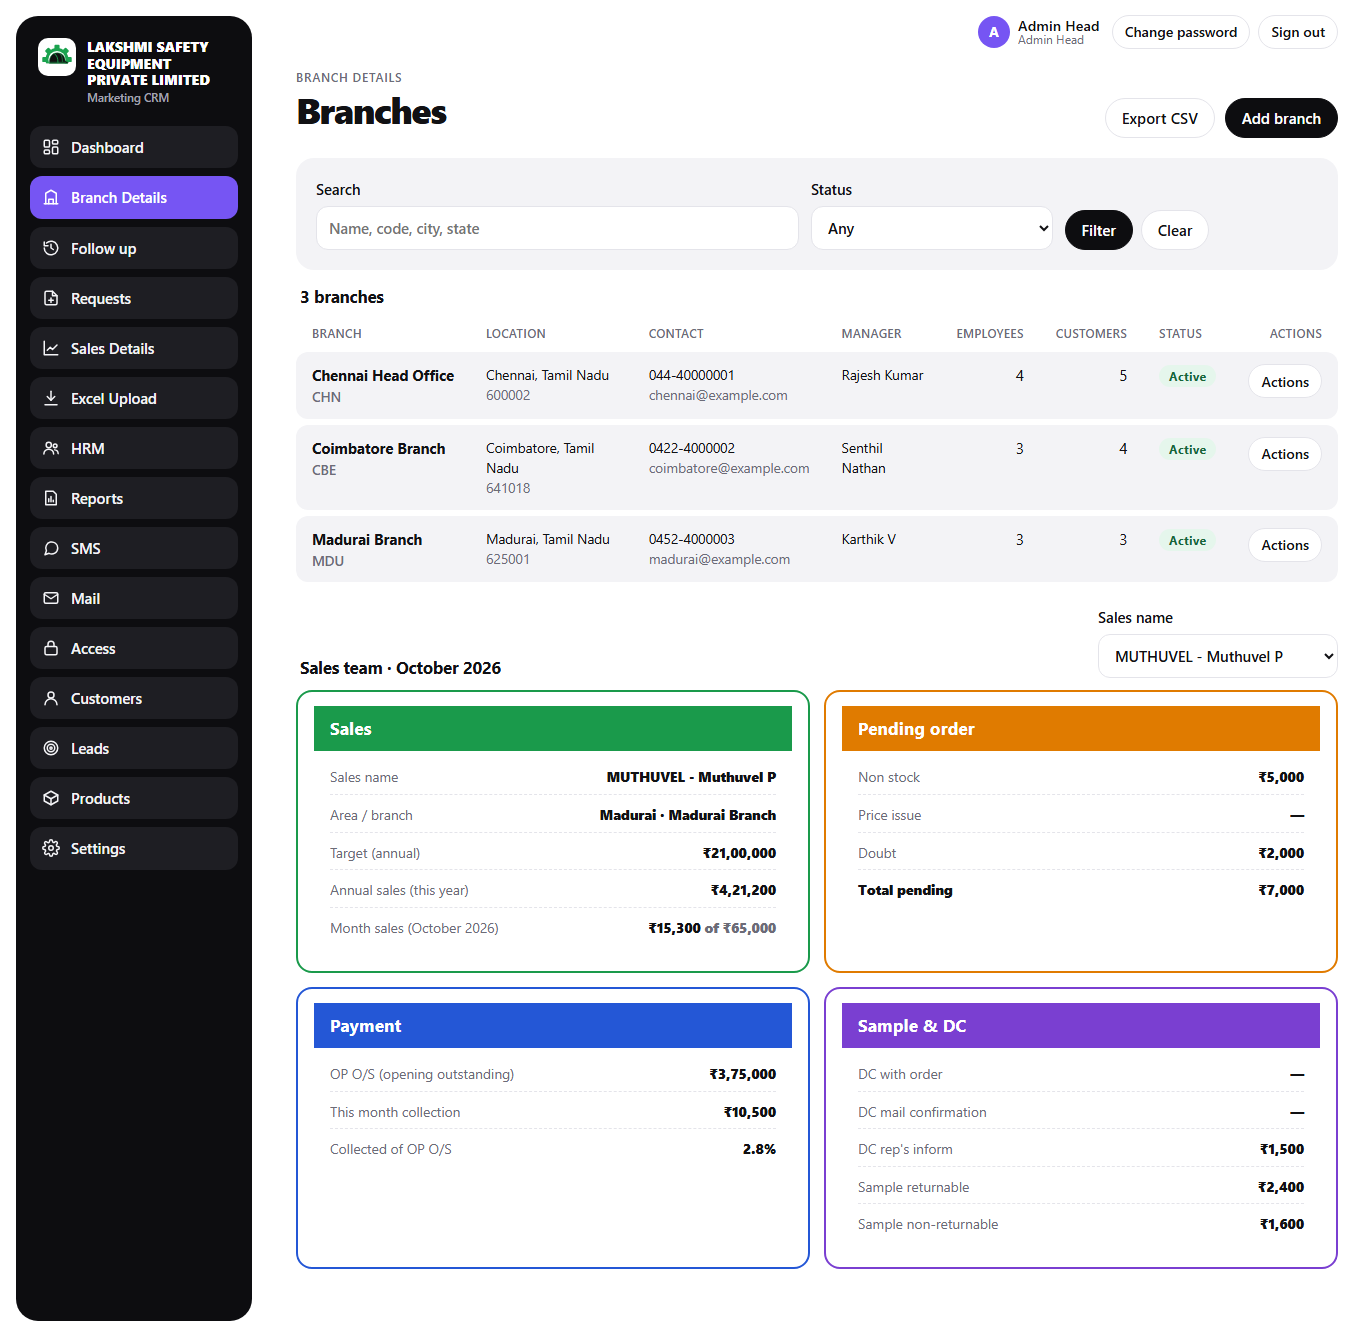
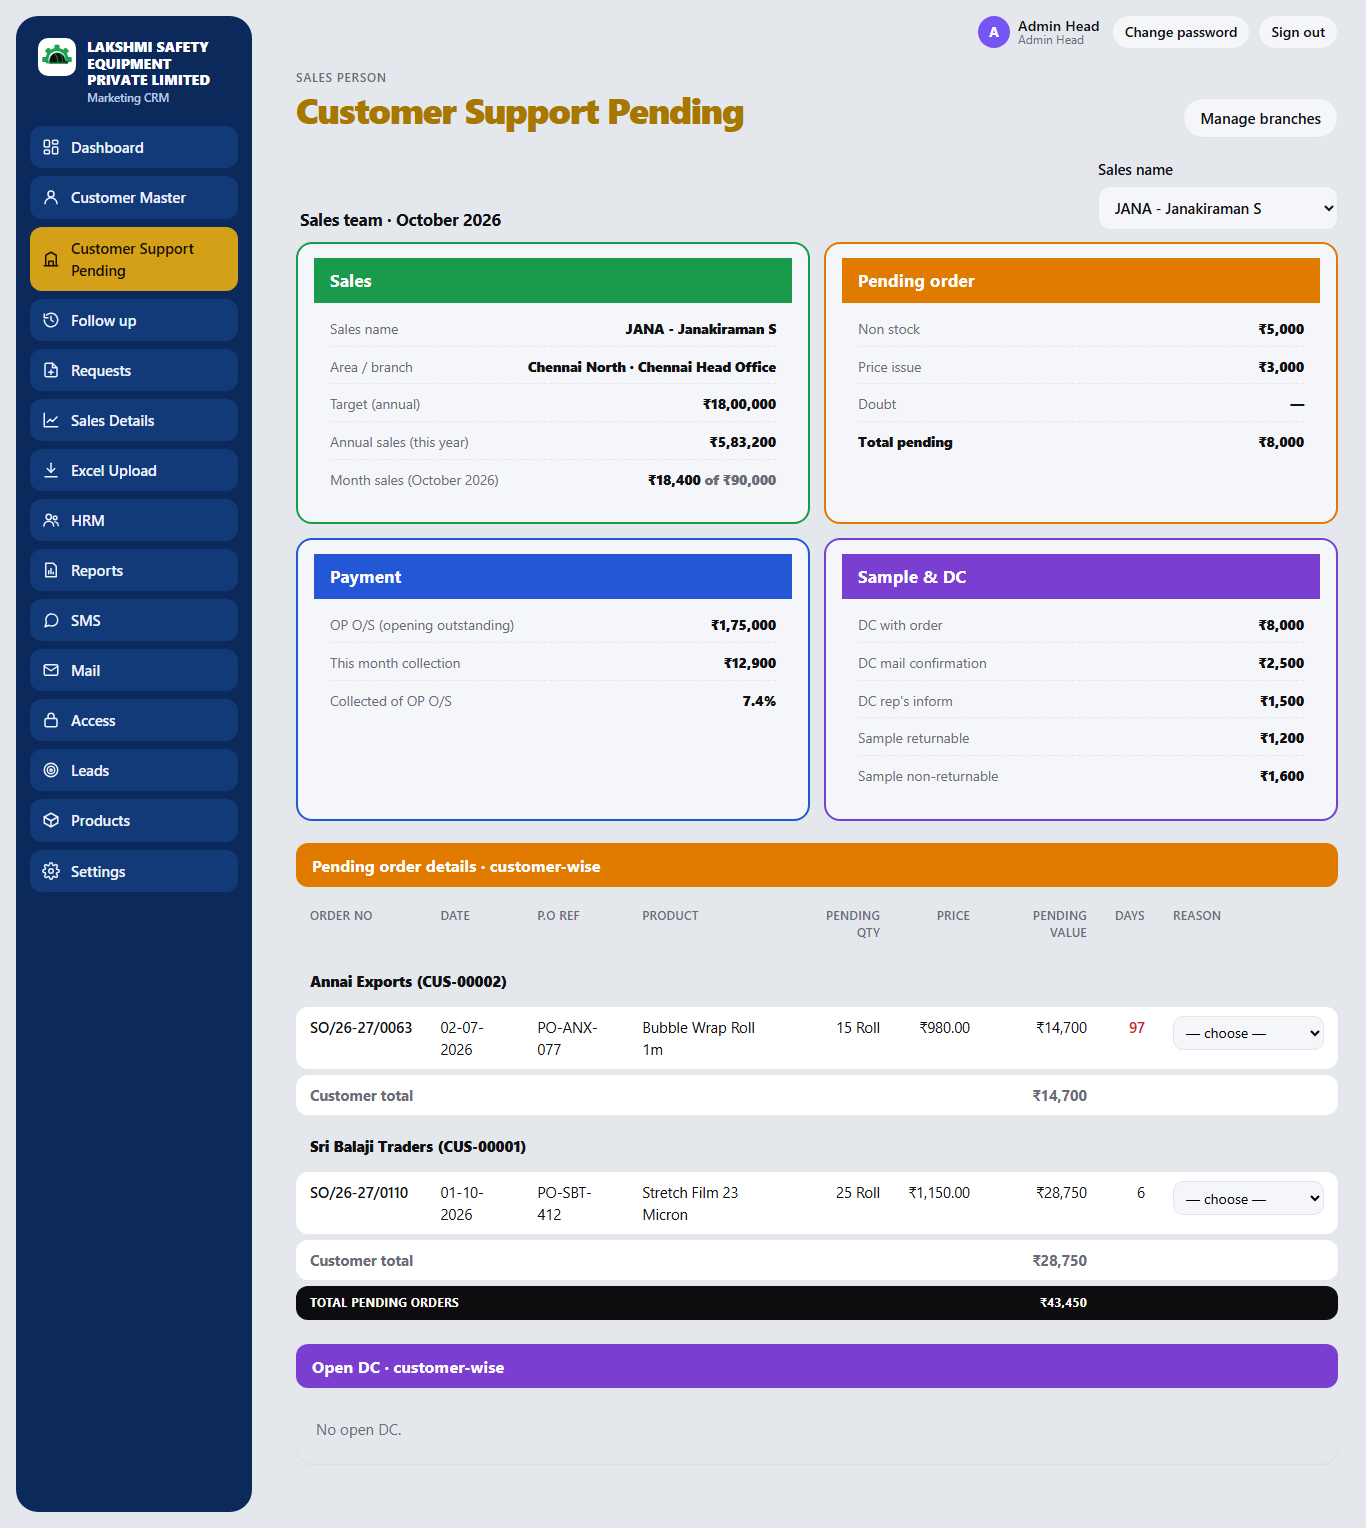
feat: Customer Master menu, Customer Support Pending page, new colours
- Customer Master (second in the menu): + New customer and Upload Excel
  (existing customers).
- Branch Details renamed Customer Support Pending: branch list moved behind
  Manage branches; choosing a sales person shows pending orders customer-wise
  with a Reason drop box (price, payment pending, product mismatch, discount,
  stock, other) and open DC customer-wise.
- Colours: grey background, navy blue side menu with gold active item, gold
  main headings; area boxes keep their own colours.

diff --git a/public/assets/css/app.css b/public/assets/css/app.css
@@ -1031,3 +1031,30 @@ body.minimal .topbar .brand { display: inline-flex; color: var(--text); font-wei
 .rep-sdc   { border-color: #7a3fd1; } .rep-sdc h3 { background: #7a3fd1; }
 @media (max-width: 800px) { .rep-boxes { grid-template-columns: 1fr; } }
 .btn-back { margin-bottom: 10px; min-height: 34px; padding: 0 14px; font-size: .9rem; }
+
+/* Branch Details: one rep's pending orders and open DC, customer-wise */
+.rep-detail { margin-top: 18px; }
+.rep-detail-title { margin: 0 0 6px; padding: 10px 16px; border-radius: 12px; color: #fff; font-size: 1.02rem; }
+.rep-detail-title.po { background: #e07b00; }
+.rep-detail-title.dc { background: #7a3fd1; }
+.table tr.cust-row > td { background: transparent; font-weight: 800; padding-top: 14px; color: var(--text); }
+.table tr.cust-total > td { background: var(--surface); font-weight: 700; color: var(--muted); }
+.reason-form select { min-height: 34px; padding: 0 8px; border-radius: 10px; border: 1px solid var(--border); background: var(--surface-2); font: inherit; font-size: .88rem; }
+
+/* Colours (owner, 07-10-2026): grey background, navy side menu, gold main headings */
+:root:not([data-theme="dark"]) { --bg: #e4e7ec; --surface: #ffffff; --surface-2: #f4f6f9; }
+@media (prefers-color-scheme: dark) { :root:not([data-theme="light"]) { --bg: #0b0c0e; --surface: #17171c; --surface-2: #202027; } }
+body { background: var(--bg); }
+.topbar { background: transparent; }
+.sidebar { background: #0b2a5b; }
+.sidebar a, .sidebar .soon { background: #133a78; color: #eef3ff; }
+.sidebar a:hover { background: #1b4a94; }
+.sidebar a.active { background: #d4a017; color: #1b1300; }
+.sidebar-account a, .sidebar-logout { background: transparent; color: #b9c8e6; }
+.sidebar-account a:hover, .sidebar-logout:hover { background: #133a78; color: #fff; }
+.brand-text small { color: #b9c8e6; }
+h1, .page-head h1, .company-title { color: #a87700; }
+.card, .pe-box, .inv-box { box-shadow: 0 1px 2px rgba(16, 24, 40, .06); }
+.table-card .table td { background: #ffffff; }
+.table-card .table tbody tr:hover > td { background: #fff8e6; }
+@media (max-width: 900px) { .topbar { background: var(--bg); } }

diff --git a/app/Views/branches/index.php b/app/Views/branches/index.php
@@ -9,19 +9,26 @@ use App\Core\Csrf;
 $query = static fn (array $extra): string => http_build_query(array_filter(array_merge($filters, $extra), static fn ($v) => $v !== ''));
 ob_start();
 ?>
+<?php $showList ??= false; ?>
 <div class="page-head">
     <div>
-        <p class="eyebrow">Branch Details</p>
-        <h1>Branches</h1>
+        <p class="eyebrow"><?= $showList ? 'Customer Support Pending' : 'Sales person' ?></p>
+        <h1><?= $showList ? 'Manage branches' : 'Customer Support Pending' ?></h1>
     </div>
     <div class="form-actions">
-        <?php if ($canExport): ?><a class="btn" href="<?= e(url('branches/export')) ?>">Export CSV</a><?php endif; ?>
-        <?php if ($canAdd): ?><a class="btn btn-primary" href="<?= e(url('branches/new')) ?>">Add branch</a><?php endif; ?>
+        <?php if ($showList): ?>
+            <a class="btn" href="<?= e(url('branches')) ?>">&larr; Back</a>
+            <?php if ($canExport): ?><a class="btn" href="<?= e(url('branches/export')) ?>">Export CSV</a><?php endif; ?>
+            <?php if ($canAdd): ?><a class="btn btn-primary" href="<?= e(url('branches/new')) ?>">Add branch</a><?php endif; ?>
+        <?php else: ?>
+            <a class="btn" href="<?= e(url('branches') . '?view=list') ?>">Manage branches</a>
+        <?php endif; ?>
     </div>
 </div>
 
 <?php require dirname(__DIR__) . '/partials/flash.php'; ?>
 
+<?php if ($showList): ?>
 <form method="get" action="<?= e(url('branches')) ?>" class="filters card">
     <label class="field">
         <span>Search</span>
@@ -94,10 +101,12 @@ ob_start();
     <?php endif; ?>
 </section>
 
+<?php endif; ?>
 <?php
-$teamBranches ??= []; $team ??= []; $teamBranch ??= 0; $teamRep ??= 0; $repData ??= null; $pcts ??= ['sales' => 80, 'collection' => 60]; $teamMonth ??= date('Y-m-01');
+$teamBranches ??= []; $team ??= []; $teamBranch ??= 0; $teamRep ??= 0; $repData ??= null; $repOrders ??= []; $repDcs ??= []; $canReason ??= false; $pcts ??= ['sales' => 80, 'collection' => 60]; $teamMonth ??= date('Y-m-01');
 $p = static fn ($v): int => \App\Core\Money::fromDb($v);
 ?>
+<?php if (!$showList): ?>
 <section class="card table-card team-card">
     <div class="team-head">
         <h2>Sales team · <?= e(date('F Y', strtotime($teamMonth))) ?></h2>
@@ -150,6 +159,68 @@ $p = static fn ($v): int => \App\Core\Money::fromDb($v);
             </dl>
         </section>
     </div>
+
+    <?php
+    $byCustomer = static function (array $rows): array { $g = []; foreach ($rows as $row) { $g[$row['customer'] . ' (' . $row['customer_code'] . ')'][] = $row; } return $g; };
+    $reasons = \App\Modules\Branches\BranchController::REASONS;
+    ?>
+    <section class="rep-detail" id="rep-orders">
+        <h3 class="rep-detail-title po">Pending order details · customer-wise</h3>
+        <?php if (!$repOrders): ?><p class="empty">No pending orders.</p><?php else: ?>
+        <div class="table-scroll"><table class="table compact">
+            <thead><tr><th>Order no</th><th>Date</th><th>P.O ref</th><th>Product</th><th class="right">Pending qty</th><th class="right">Price</th><th class="right">Pending value</th><th class="right">Days</th><th>Reason</th></tr></thead>
+            <tbody>
+            <?php $tot = 0; $seen = []; foreach ($byCustomer($repOrders) as $cust => $rows): $ct = 0; ?>
+                <tr class="cust-row"><td colspan="9"><?= e($cust) ?></td></tr>
+                <?php foreach ($rows as $o): $v = \App\Core\Money::fromDb($o['pending_value']); $ct += $v; $tot += $v; $first = !isset($seen[$o['order_id']]); $seen[$o['order_id']] = 1; ?>
+                <tr>
+                    <td><?= e($o['order_no']) ?></td><td><?= e(date('d-m-Y', strtotime($o['order_date']))) ?></td><td><?= e($o['customer_po_no'] ?: '—') ?></td>
+                    <td><?= e($o['product']) ?></td>
+                    <td class="right num"><?= e(rtrim(rtrim((string) $o['pending_qty'], '0'), '.')) ?> <?= e($o['unit'] ?? '') ?></td>
+                    <td class="right num"><?= e(rupees(\App\Core\Money::fromDb($o['rate']), 2)) ?></td>
+                    <td class="right num"><?= e(rupees($v)) ?></td>
+                    <td class="right num<?= (int) $o['days'] > 30 ? ' text-bad' : '' ?>"><?= e($o['days']) ?></td>
+                    <td><?php if ($first && $canReason): ?>
+                        <form method="post" action="<?= e(url("branches/order-reason/{$o['order_id']}")) ?>" class="reason-form">
+                            <?= \App\Core\Csrf::field() ?>
+                            <select name="reason" data-autosubmit aria-label="Reason for order <?= e($o['order_no']) ?>">
+                                <option value="">— choose —</option>
+                                <?php foreach ($reasons as $rk => $rl): ?><option value="<?= e($rk) ?>"<?= $o['pending_reason'] === $rk ? ' selected' : '' ?>><?= e($rl) ?></option><?php endforeach; ?>
+                            </select>
+                        </form>
+                        <?php elseif ($first): ?><?= e($reasons[$o['pending_reason']] ?? '—') ?><?php endif; ?></td>
+                </tr>
+                <?php endforeach; ?>
+                <tr class="cust-total"><td colspan="6">Customer total</td><td class="right num"><?= e(rupees($ct)) ?></td><td colspan="2"></td></tr>
+            <?php endforeach; ?>
+            </tbody>
+            <tfoot><tr class="total-row"><th colspan="6">Total pending orders</th><th class="right num"><?= e(rupees($tot)) ?></th><th colspan="2"></th></tr></tfoot>
+        </table></div>
+        <?php endif; ?>
+    </section>
+
+    <section class="rep-detail" id="rep-dc">
+        <h3 class="rep-detail-title dc">Open DC · customer-wise</h3>
+        <?php if (!$repDcs): ?><p class="empty">No open DC.</p><?php else: ?>
+        <div class="table-scroll"><table class="table compact">
+            <thead><tr><th>DC no</th><th>Date</th><th>Product</th><th class="right">Qty</th><th class="right">Value</th><th class="right">Days open</th><th>Approval</th></tr></thead>
+            <tbody>
+            <?php $tot = 0; foreach ($byCustomer($repDcs) as $cust => $rows): $ct = 0; ?>
+                <tr class="cust-row"><td colspan="7"><?= e($cust) ?></td></tr>
+                <?php foreach ($rows as $d): $v = \App\Core\Money::fromDb($d['dc_value']); $ct += $v; $tot += $v; ?>
+                <tr><td><?= e($d['dc_no']) ?></td><td><?= e(date('d-m-Y', strtotime($d['dc_date']))) ?></td><td><?= e($d['product']) ?></td>
+                    <td class="right num"><?= e(rtrim(rtrim((string) $d['quantity'], '0'), '.')) ?> <?= e($d['unit'] ?? '') ?></td>
+                    <td class="right num"><?= e(rupees($v)) ?></td>
+                    <td class="right num<?= (int) $d['days'] > 30 ? ' text-bad' : '' ?>"><?= e($d['days']) ?></td>
+                    <td><?= e(['customer_mail' => 'Customer mail', 'md_approval' => 'M.D approval'][$d['approval_type'] ?? ''] ?? '—') ?></td></tr>
+                <?php endforeach; ?>
+                <tr class="cust-total"><td colspan="4">Customer total</td><td class="right num"><?= e(rupees($ct)) ?></td><td colspan="2"></td></tr>
+            <?php endforeach; ?>
+            </tbody>
+            <tfoot><tr class="total-row"><th colspan="4">Total open DC</th><th class="right num"><?= e(rupees($tot)) ?></th><th colspan="2"></th></tr></tfoot>
+        </table></div>
+        <?php endif; ?>
+    </section>
     <?php elseif (!$team): ?><p class="empty">No sales people.</p><?php else: ?>
     <div class="table-scroll"><table class="table compact">
         <thead><tr>
@@ -176,6 +247,7 @@ $p = static fn ($v): int => \App\Core\Money::fromDb($v);
     </table></div>
     <?php endif; ?>
 </section>
+<?php endif; ?>
 <?php
 $content = ob_get_clean();
 require dirname(__DIR__) . '/layouts/app.php';

diff --git a/app/Modules/Branches/BranchController.php b/app/Modules/Branches/BranchController.php
@@ -89,16 +89,31 @@ final class BranchController
         $teamRep = (int) ($_GET['rep'] ?? 0);
         $teamRep = in_array($teamRep, array_map('intval', array_column($team, 'id')), true) ? $teamRep : 0;
         $repData = $teamRep ? self::repFigures($teamRep) : null;
+        $repOrders = $teamRep ? Database::fetchAll(
+            "SELECT v.order_id, v.order_no, v.order_date, v.customer_po_no, c.name AS customer, c.customer_code, p.name AS product, p.unit,
+                    v.pending_qty, poi.rate, v.pending_value, po.pending_reason, DATEDIFF(CURDATE(), v.order_date) AS days
+             FROM v_pending_order_lines v JOIN pending_orders po ON po.id = v.order_id
+             JOIN pending_order_items poi ON poi.id = v.item_id JOIN customers c ON c.id = v.customer_id JOIN products p ON p.id = v.product_id
+             WHERE v.employee_id = ? ORDER BY c.name, v.order_date, v.order_no", [$teamRep]) : [];
+        $repDcs = $teamRep ? Database::fetchAll(
+            "SELECT v.dc_id, v.dc_no, v.dc_date, c.name AS customer, c.customer_code, p.name AS product, p.unit, v.quantity, v.dc_value,
+                    DATEDIFF(CURDATE(), v.dc_date) AS days, d.approval_type
+             FROM v_pending_dc_lines v JOIN dc_records d ON d.id = v.dc_id JOIN customers c ON c.id = v.customer_id JOIN products p ON p.id = v.product_id
+             WHERE v.employee_id = ? ORDER BY c.name, v.dc_date, v.dc_no", [$teamRep]) : [];
 
         Response::view('branches/index', [
             'teamRep'      => $teamRep,
+            'repOrders'    => $repOrders,
+            'repDcs'       => $repDcs,
+            'showList'     => ($_GET['view'] ?? '') === 'list' || $q !== '' || $status !== '' || isset($_GET['page']),
+            'canReason'    => Gate::allowsAny(['pending_orders.add', 'pending_orders.edit'], $user),
             'repData'      => $repData,
             'teamBranches' => $teamBranches,
             'teamBranch'   => $teamBranch,
             'team'         => $team,
             'teamMonth'    => $teamMonth,
             'pcts'         => \App\Modules\Dashboard\EntryController::pcts(),
-            'title'    => 'Branch Details',
+            'title'    => 'Customer Support Pending',
             'flash'    => Session::takeFlash(),
             'branches' => $branches,
             'filters'  => ['q' => $q, 'status' => $status],
@@ -147,6 +162,30 @@ final class BranchController
         ];
     }
 
+    public const REASONS = ['price' => 'Price', 'payment_pending' => 'Payment pending', 'product_mismatch' => 'Product mismatch',
+                            'discount' => 'Discount', 'stock' => 'Stock', 'other' => 'Other'];
+
+    /** Branch Details: set why a pending order is held (drop box per order). */
+    public static function orderReason(array $p): void
+    {
+        $user = Auth::user();
+        [$w, $wp] = DataScope::for($user)->where('o.branch_id', 'o.employee_id');
+        $o = Database::fetch("SELECT o.id, o.order_no, o.employee_id, o.pending_reason FROM pending_orders o WHERE o.id = ? AND o.deleted_at IS NULL AND {$w}",
+            array_merge([(int) ($p['id'] ?? 0)], $wp));
+        if ($o === null) {
+            Response::error(404, 'Order not found.');
+            return;
+        }
+        $reason = (string) ($_POST['reason'] ?? '');
+        $reason = array_key_exists($reason, self::REASONS) ? $reason : null;
+        if ($reason !== $o['pending_reason']) {
+            Database::query('UPDATE pending_orders SET pending_reason = ?, updated_by = ? WHERE id = ?', [$reason, $user['id'], $o['id']]);
+            Audit::log('pending_order.reason', 'pending_orders', (int) $o['id'], ['reason' => $o['pending_reason']], ['reason' => $reason]);
+            Session::flash('success', "Order {$o['order_no']}: reason " . ($reason ? '"' . self::REASONS[$reason] . '"' : 'cleared') . '.');
+        }
+        Response::redirect('/branches?rep=' . (int) $o['employee_id'] . '#rep-orders');
+    }
+
     public static function create(): void
     {
         self::form(null);
@@ -178,7 +217,7 @@ final class BranchController
 
         Audit::log('branch.created', 'branches', $id, null, $data);
         Session::flash('success', "Branch {$data['name']} created.");
-        Response::redirect('/branches');
+        Response::redirect('/branches?view=list');
     }
 
     public static function update(array $p): void
@@ -207,7 +246,7 @@ final class BranchController
             Audit::log('branch.updated', 'branches', (int) $branch['id'], array_intersect_key($old, $changes), $changes);
         }
         Session::flash('success', "Branch {$data['name']} updated.");
-        Response::redirect('/branches');
+        Response::redirect('/branches?view=list');
     }
 
     public static function toggleStatus(array $p): void
@@ -219,14 +258,14 @@ final class BranchController
         $disable = $branch['status'] === 'active';
         if ($disable && self::hasActiveDependents((int) $branch['id'])) {
             Session::flash('error', "Branch {$branch['name']} has active employees or customers and cannot be disabled. Reassign them first.");
-            Response::redirect('/branches');
+            Response::redirect('/branches?view=list');
             return;
         }
 
         Database::query('UPDATE branches SET status = ?, updated_by = ? WHERE id = ?', [$disable ? 'inactive' : 'active', Auth::id(), $branch['id']]);
         Audit::log($disable ? 'branch.disabled' : 'branch.enabled', 'branches', (int) $branch['id'], ['status' => $branch['status']], ['status' => $disable ? 'inactive' : 'active']);
         Session::flash('success', "{$branch['name']} " . ($disable ? 'disabled.' : 'enabled.'));
-        Response::redirect('/branches');
+        Response::redirect('/branches?view=list');
     }
 
     public static function destroy(array $p): void
@@ -237,14 +276,14 @@ final class BranchController
         }
         if (self::hasActiveDependents((int) $branch['id'])) {
             Session::flash('error', "Branch {$branch['name']} has employees, customers or transactions and cannot be deleted. Disable it instead.");
-            Response::redirect('/branches');
+            Response::redirect('/branches?view=list');
             return;
         }
 
         Database::query('UPDATE branches SET deleted_at = NOW(), deleted_by = ?, status = ? WHERE id = ?', [Auth::id(), 'inactive', $branch['id']]);
         Audit::log('branch.deleted', 'branches', (int) $branch['id'], ['branch_code' => $branch['branch_code'], 'name' => $branch['name']]);
         Session::flash('success', "Branch {$branch['name']} deleted.");
-        Response::redirect('/branches');
+        Response::redirect('/branches?view=list');
     }
 
     public static function export(): void

diff --git a/config/menu.php b/config/menu.php
@@ -10,7 +10,8 @@ declare(strict_types=1);
  */
 return [
     ['key' => 'dashboard', 'label' => 'Dashboard',      'path' => '/',             'any' => ['dashboard.view'], 'ready' => true],
-    ['key' => 'branches',  'label' => 'Branch Details', 'path' => '/branches',     'any' => ['branches.view'],  'ready' => true],
+    ['key' => 'customers', 'label' => 'Customer Master', 'path' => '/customers',    'any' => ['customers.view'], 'ready' => true],
+    ['key' => 'branches',  'label' => 'Customer Support Pending', 'path' => '/branches',     'any' => ['branches.view'],  'ready' => true],
     ['key' => 'followup',  'label' => 'Follow up',      'path' => '/followup',     'any' => ['followup.view'], 'ready' => true],
     ['key' => 'requests',  'label' => 'Requests',       'path' => '/requests',     'any' => ['leads.add', 'pending_orders.add', 'dc.add', 'samples.add'], 'ready' => true],
     ['key' => 'sales',     'label' => 'Sales Details',  'path' => '/sales',        'any' => ['sales.view', 'targets.view', 'collections.view', 'pending_orders.view', 'samples.view', 'dc.view', 'outstanding.view'], 'ready' => true],
@@ -20,7 +21,6 @@ return [
     ['key' => 'sms',       'label' => 'SMS',            'path' => '/sms',          'any' => ['sms.view'],       'ready' => true],
     ['key' => 'mail',      'label' => 'Mail',           'path' => '/mail',         'any' => ['mail.view'],      'ready' => true],
     ['key' => 'access',    'label' => 'Access',         'path' => '/access/users', 'any' => ['users.view', 'access.manage'], 'ready' => true],
-    ['key' => 'customers', 'label' => 'Customers',      'path' => '/customers',    'any' => ['customers.view'], 'ready' => true],
     ['key' => 'leads',     'label' => 'Leads',          'path' => '/leads',        'any' => ['leads.view'],     'ready' => true],
     ['key' => 'products',  'label' => 'Products',       'path' => '/products',     'any' => ['products.view'],  'ready' => true],
     ['key' => 'settings',  'label' => 'Settings',       'path' => '/settings',     'any' => ['settings.manage', 'audit.view'], 'ready' => true],

diff --git a/app/Views/customers/index.php b/app/Views/customers/index.php
@@ -13,12 +13,14 @@ ob_start();
 ?>
 <div class="page-head">
     <div>
-        <p class="eyebrow">Customers</p>
-        <h1>Customers</h1>
+        <p class="eyebrow">Customer Master</p>
+        <h1>Customer Master</h1>
+        <p class="muted small">Add a new customer, or upload your existing customers from Excel.</p>
     </div>
     <div class="form-actions">
         <?php if ($canExport): ?><a class="btn" href="<?= e(url('customers/export')) ?>">Export CSV</a><?php endif; ?>
-        <?php if ($canAdd): ?><a class="btn btn-primary" href="<?= e(url('customers/new')) ?>">Add customer</a><?php endif; ?>
+        <?php if (\App\Core\Gate::allows('customers.import')): ?><a class="btn" href="<?= e(url('imports/new/customers')) ?>">Upload Excel (existing customers)</a><?php endif; ?>
+        <?php if ($canAdd): ?><a class="btn btn-primary" href="<?= e(url('customers/new')) ?>">+ New customer</a><?php endif; ?>
     </div>
 </div>
 

diff --git a/routes/web.php b/routes/web.php
@@ -142,6 +142,7 @@ $router->post('/access/roles/{id}/delete', [RoleController::class, 'destroy'], [
 $router->get('/branches', [BranchController::class, 'index'], ['auth', 'can:branches.view']);
 $router->get('/branches/new', [BranchController::class, 'create'], ['auth', 'can:branches.add']);
 $router->post('/branches', [BranchController::class, 'store'], ['auth', 'can:branches.add', 'csrf']);
+$router->post('/branches/order-reason/{id}', [BranchController::class, 'orderReason'], ['auth', 'can:branches.view', 'can_any:pending_orders.add,pending_orders.edit', 'csrf']);
 $router->get('/branches/{id}/edit', [BranchController::class, 'edit'], ['auth', 'can:branches.view']);
 $router->post('/branches/{id}', [BranchController::class, 'update'], ['auth', 'can:branches.edit', 'csrf']);
 $router->post('/branches/{id}/status', [BranchController::class, 'toggleStatus'], ['auth', 'can:branches.edit', 'csrf']);
